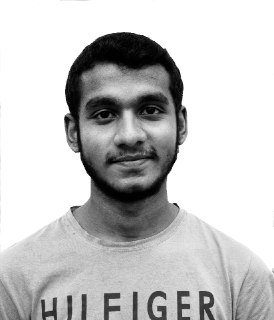
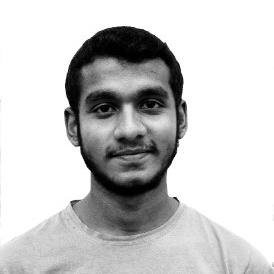
about us propic improvement

diff --git a/web-frontend/src/pages/aboutUs/AboutUs.jsx b/web-frontend/src/pages/aboutUs/AboutUs.jsx
@@ -8,7 +8,7 @@ import github from '../../assests/github.png';
 import tharindu from '../../assests/tharindu.jpg';
 import nathindu from '../../assests/nathindu.png';
 import malith from '../../assests/malith.jpg';
-import rashad from '../../assests/rashad2.jpg';
+import rashad from '../../assests/rashad1.jpg';
 import adeesha from '../../assests/manthila.png';
 
 const AboutUs = () => {
